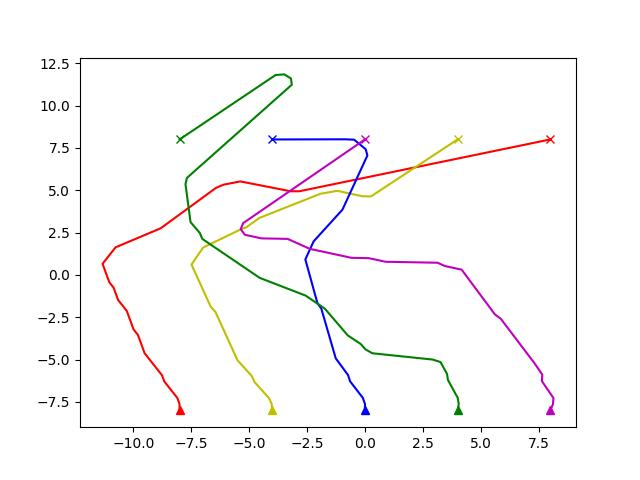
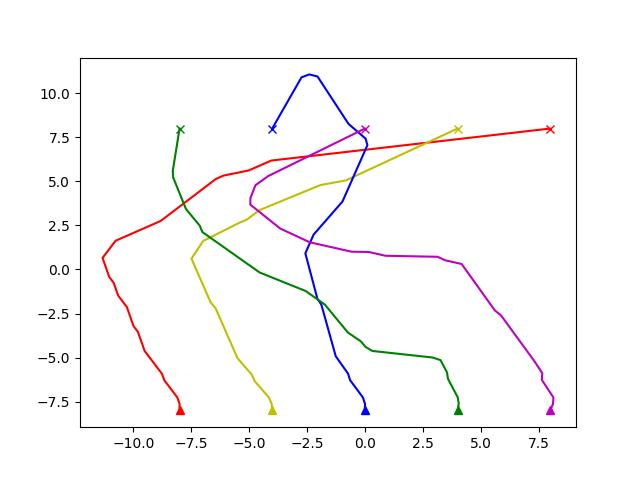
improving geometric calculations for collision

diff --git a/utils.py b/utils.py
@@ -5,6 +5,95 @@ from math import *
 from numpy.linalg import norm
 
 
+class Point:
+
+    def __init__(self, x: float, y: float) -> None:
+        self.x = x
+        self.y = y
+
+
+class Line:
+
+    def __init__(self, p1: Point, p2: Point) -> None:
+        if (p2.x-p1.x) != 0:
+            self.m = (p2.y-p1.y)/(p2.x-p1.x)
+            self.n = p1.y-p1.x*self.m
+        else:
+            self.m = float('inf')
+            self.n = float('inf')
+            self.xaxis = p1.x
+        
+    def f_x(self, x):
+        if self.m == float('inf'):  
+            return float('inf')
+        return self.m*x+self.n
+        
+    def f_y(self, y):
+        if self.m == float('inf'):  
+            return self.xaxis
+        return (y-self.n)/self.m
+
+
+
+class Circle:
+
+    def __init__(self, center: Point, radio: float) -> None:
+        self.center = center
+        self.a = center.x
+        self.b = center.y
+        self.radio = radio
+
+
+def collision_point_circle_line(circle: Circle, line: Line):
+    ## Circle: (x-a)**2+(y-b)**2=r**2
+    ## Line: y=mx+n
+
+    if line.m == float('inf'):
+        try:
+            n = sqrt(circle.radio**2 - (line.xaxis-circle.a)**2)
+            y1, y2 = n + circle.b, -n + circle.b
+            return Point(line.xaxis, y1), Point(line.xaxis, y2)
+        except:
+            return None  
+    else:
+        # (x-circle.a)**2+(line.m*x+line.n-circle.b)**2=circle.r**2
+        # x**2-2*circle.a*x+circle.a**2+line.m**2*x**2+2*line.m*x*(line.n-circle.b)+(line.n-circle.b)**2=circle.r**2
+        # (1+line.m**2)*x**2 + (-2*circle.a+2*line.m*(line.n-circle.b))*x + circle.a**2+(line.n-circle.b)**2-circle.r**2=0
+        a = 1+line.m**2
+        b = -2*circle.a+2*line.m*(line.n-circle.b)
+        c = circle.a**2+(line.n-circle.b)**2-circle.radio**2
+        res = discriminant(a, b, c)
+        if not res:
+            return None
+
+        try:
+            x1, x2 = res
+            return Point(x1, line.f_x(x1)), Point(x2, line.f_x(x2)) 
+        except:
+            return Point(res, line.f_x(res))    
+
+
+def discriminant(a,b,c):
+    D = b**2-4*a*c
+    if D<0:
+        return None
+    elif round(D,6) == 0:
+        return -b/(2*a)
+    else:
+        return (-b+sqrt(D))/(2*a), (-b-sqrt(D))/(2*a) 
+
+
+def detect_collision_point(point, dir, center, radio):
+    assert dir[0]!=0 or dir[1]!=0, "Please provided a valir direction"
+    
+    c = Circle(center, radio)
+    p1 = Point(point[0], point[1])
+    p2 = Point(point[0]+dir[0], point[1]+dir[1])
+    l = Line(p1, p2)
+
+    return collision_point_circle_line(c, l)
+
+
 # Dist from line between points p1 and p2, to point p3
 def distance_from_line_2point(p1, p2, p3):
     # p1 = p1.astype(float)
@@ -47,14 +136,26 @@ def collide(uav1, d1, uav2, d2, timestep):
         hip = euclidian_distance(uav2.position, uav1.position)        
         col_dist = sqrt(hip**2 - cat1**2)
 
-        resp, point_near_goal = point_mindist_to_goal(uav2, d2) 
+        ## If uav collision is after the timestep then there is not collsion until timestep
         final_point = uav2.position + diffvector*timestep 
-
-        if resp and euclidian_distance(point_near_goal, uav2.position) < col_dist and euclidian_distance(point_near_goal, uav1.position) > radialdist:
-            return False   
         if euclidian_distance(final_point, uav2.position) < col_dist and euclidian_distance(final_point, uav1.position) > radialdist:
             return False
 
+        ## If uav1 reaches goal before collision cuidado pq se mueveeeeee
+        # timegoal1 = point_mindist_to_goal(uav1, d1) 
+        # if timegoal1:
+        #     pos1 = uav1.position + timegoal1*uav1.speed*d1
+        #     if euclidian_distance(uav1.position, pos1) < col_dist and euclidian_distance(pos1, uav2.position)
+        #     return False
+        
+        ## If uav2 reaches goal before collision
+        ## TODO dist de linea a circlulo
+        timegoal2 = point_mindist_to_goal(uav2, d2) 
+        if timegoal2:
+            pos2 = uav2.position + timegoal2*uav2.speed*d2
+            if euclidian_distance(uav2.position, pos2) < col_dist and euclidian_distance(pos2, uav1.position) < radialdist:
+                return False
+                    
         return True
     
     return False
@@ -66,13 +167,11 @@ def point_mindist_to_goal(uav, d):
     ## Distance from P3 to line between P1 and P2
     p1, p2, p3 = uav.position, new_pos, uav.goal_point
     dist = distance_from_line_2point(p1, p2, p3)
-    if dist < uav.goal_distance:
+    if dist <= uav.goal_distance+uav.radio:
         hip = euclidian_distance(p1, p3)
         displacement = sqrt(hip**2 - dist**2)
-        time = displacement/(uav.speed*sum(d**2))
-        return 1, p1+d*uav.speed*time
-    else:
-        return 0, None        
+        time = displacement/(uav.speed*norm(d))
+        return time     
 
 # Detect if two uavs in the list collide 
 def list_collide(uavs, directions, timestep):
@@ -166,3 +265,7 @@ def calc_measures(uav):
 
 def angle_in_range(alpha, lower, upper):
     return (alpha - lower) % (2*pi) <= (upper - lower) % (2*pi)
+
+
+def time_from_displacement(dir, speed, displacement):
+    return displacement/(speed*norm(dir))

diff --git a/classes.py b/classes.py
@@ -19,20 +19,44 @@ class UAV:
 
 
     def fly(self, timestep):
-        new_pos = self.position + timestep*self.speed*self.direction
+        ## WITH POINT TO LINE
+        # new_pos = self.position + timestep*self.speed*self.direction
 
-        ## Distance from P3 to line between P1 and P2
-        p1, p2, p3 = new_pos, self.position, self.goal_point
-        cat1 = distance_from_line_2point(p1, p2, p3)
-        cat2 = euclidian_distance(p1, p3)
+        # ## Distance from P3 to line between P1 and P2
+        # p1, p2, p3 = new_pos, self.position, self.goal_point
+        # cat1 = distance_from_line_2point(p1, p2, p3)
         
-        ## If it pass near goal position
-        if cat1 <= self.goal_distance+self.radio and sqrt(cat1**2+cat2**2) <= self.speed*timestep:
-            self.is_in_goal = True
-            self.history.append(self.goal_point)
-        else:
-            self.position = new_pos
-            self.history.append(self.position)
+        # cat2 = euclidian_distance(p1, p3)
+        
+        # ## If it pass near goal position
+        # if cat1 <= self.goal_distance+self.radio and sqrt(cat1**2+cat2**2) <= self.speed*timestep:
+        #     self.is_in_goal = True
+        #     self.history.append(self.goal_point)
+        # else:
+        #     self.position = new_pos
+        #     self.history.append(self.position)
+        
+        goal = Point(self.goal_point[0], self.goal_point[1])
+        res = detect_collision_point(self.position, self.direction, goal,self.goal_distance+self.radio)
+        try:
+            p1, p2 = res 
+            p1 = np.array([p1.x, p1.y])
+            p2 = np.array([p2.x, p2.y])
+            d1, d2 = euclidian_distance(self.position, p1), euclidian_distance(self.position, p2) 
+            near = p1 if d1 < d2 else p2
+        except:
+            near = None if res == None else np.array([res.x, res.y])
+
+        if not near is None:
+            time = time_from_displacement(self.direction, self.speed, euclidian_distance(self.position, near)) 
+            if time < timestep:
+                self.is_in_goal = True
+                self.history.append(self.goal_point)
+                return
+        
+        self.position = self.position +timestep*self.speed*self.direction 
+        self.history.append(self.position)
+    
 
 
     def generate_directions(self, k, stop_cost = None):
@@ -88,7 +112,6 @@ class UAV:
     def copy(self):
         uav = UAV((self.position[0], self.position[1]), self.speed, self.radio, (self.direction[0], self.direction[1]), self.goal_point)
         return uav
-
 
 if __name__=="__main__":
 

diff --git a/experiments.py b/experiments.py
@@ -85,7 +85,7 @@ def experiment2(k=K_DIR, speed = SPEED, radio = RADIO, timestep=TIMESTEP, ca_tim
     # print(timestep)
 
     measures = simulate(uavs, k, ca_timerange, timestep)
-    print(measures)
+    # print(measures)
     with open("results/experiments2.json", "w") as f:
         f.write(json.dumps(measures))
 
@@ -284,18 +284,18 @@ if __name__ == "__main__":
     print("****Experimento 2 terminado****")
     print()
     
-    experiment3()
+    # experiment3()
 
-    print("****Experimento 3 terminado****")
-    print()
+    # print("****Experimento 3 terminado****")
+    # print()
     
-    experiment4()
+    # experiment4()
 
-    print("****Experimento 4 terminado****")
-    print()
+    # print("****Experimento 4 terminado****")
+    # print()
 
-    random_experiments()
+    # random_experiments()
     
-    print("****Random experiments terminados****")
-    print()
+    # print("****Random experiments terminados****")
+    # print()
     

diff --git a/simulations.py b/simulations.py
@@ -42,7 +42,17 @@ def simulate(uavs, k, ca_timerange, timestep, max_iterations=10**5):
         #         if currentamp-u.max_amp < goalamp < currentamp+u.max_amp:
         #             u.direction = d 
 
+
         new_directions, cost = resolve_collision(flying_uavs, k, ca_timerange)
+
+        # for i, uav in enumerate(flying_uavs):
+        #     if uav.position[0] < -5 and uav.position[1] > 5 and count < 50:
+        #         print(uav)
+        #         print(uav.generate_directions(k))
+        #         print("new direction:", new_directions[i])
+        #         print()  
+
+        
         if not new_directions:
             
             if list_collide(flying_uavs, current_dirs, ca_timerange):
